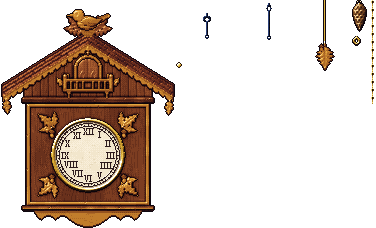
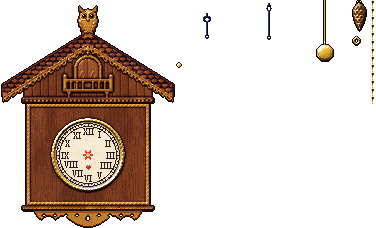
Loading clock: the owl cuckoo clock as before (boot9's), only calmer: no carved leaves or acorns (crest fan, eaves, gable sprigs, dial wreath), a plain brass disc pendulum, and a plain softly lamplit wall instead of the striped wallpaper; the office's wall clock is the same painting
Claude-Session: https://claude.ai/code/session_01N97LkrCm8fhfTY3mzxuNCj

diff --git a/index.html b/index.html
@@ -29,7 +29,7 @@ background:radial-gradient(ellipse 120% 100% at 50% 46%,rgba(2,8,5,0) 38%,rgba(2
 #boot .bt-stage{position:relative;width:176em;height:330em;flex:none;transform-origin:50% 46.970%}
 #boot .bt-clock{left:0;top:0;width:176em;height:330em}
 #boot .bt-case{left:0;top:0;width:176em;height:228em}
[2 lines of base64/hex data omitted]
 #boot .bt-wt,#boot .bt-rg{--d:1;animation:bt-wt 26s steps(1,end) forwards}
[2 lines of base64/hex data omitted]
@@ -39,7 +39,7 @@ background:radial-gradient(ellipse 120% 100% at 50% 46%,rgba(2,8,5,0) 38%,rgba(2
 #boot .bt-wt.w1{left:112em;top:236em}
 #boot .bt-rg.w0{left:39em;top:296em}
 #boot .bt-rg.w1{left:129em;top:288em}
[2 lines of base64/hex data omitted]
 #boot .bt-h{left:57em;top:124em;width:62em;height:62em}
[2 lines of base64/hex data omitted]
@@ -59,16 +59,16 @@ background:radial-gradient(ellipse 120% 100% at 50% 46%,rgba(2,8,5,0) 38%,rgba(2
 @keyframes bt-hh{to{background-position:-7440em 0}}
 @keyframes bt-wt{0.00%{transform:translateY(calc(var(--d)*0em))}0.22%{transform:translateY(calc(var(--d)*1em))}0.43%{transform:translateY(calc(var(--d)*2em))}0.66%{transform:translateY(calc(var(--d)*3em))}0.88%{transform:translateY(calc(var(--d)*4em))}1.11%{transform:translateY(calc(var(--d)*5em))}1.34%{transform:translateY(calc(var(--d)*6em))}1.57%{transform:translateY(calc(var(--d)*7em))}1.80%{transform:translateY(calc(var(--d)*8em))}2.04%{transform:translateY(calc(var(--d)*9em))}2.28%{transform:translateY(calc(var(--d)*10em))}2.53%{transform:translateY(calc(var(--d)*11em))}2.78%{transform:translateY(calc(var(--d)*12em))}3.03%{transform:translateY(calc(var(--d)*13em))}3.28%{transform:translateY(calc(var(--d)*14em))}3.54%{transform:translateY(calc(var(--d)*15em))}3.81%{transform:translateY(calc(var(--d)*16em))}4.08%{transform:translateY(calc(var(--d)*17em))}4.35%{transform:translateY(calc(var(--d)*18em))}4.63%{transform:translateY(calc(var(--d)*19em))}4.91%{transform:translateY(calc(var(--d)*20em))}5.20%{transform:translateY(calc(var(--d)*21em))}5.49%{transform:translateY(calc(var(--d)*22em))}5.79%{transform:translateY(calc(var(--d)*23em))}6.09%{transform:translateY(calc(var(--d)*24em))}6.40%{transform:translateY(calc(var(--d)*25em))}6.72%{transform:translateY(calc(var(--d)*26em))}7.05%{transform:translateY(calc(var(--d)*27em))}7.38%{transform:translateY(calc(var(--d)*28em))}7.72%{transform:translateY(calc(var(--d)*29em))}8.07%{transform:translateY(calc(var(--d)*30em))}8.43%{transform:translateY(calc(var(--d)*31em))}8.80%{transform:translateY(calc(var(--d)*32em))}9.18%{transform:translateY(calc(var(--d)*33em))}9.57%{transform:translateY(calc(var(--d)*34em))}9.97%{transform:translateY(calc(var(--d)*35em))}10.39%{transform:translateY(calc(var(--d)*36em))}10.82%{transform:translateY(calc(var(--d)*37em))}11.27%{transform:translateY(calc(var(--d)*38em))}11.74%{transform:translateY(calc(var(--d)*39em))}12.23%{transform:translateY(calc(var(--d)*40em))}12.75%{transform:translateY(calc(var(--d)*41em))}13.29%{transform:translateY(calc(var(--d)*42em))}13.86%{transform:translateY(calc(var(--d)*43em))}14.47%{transform:translateY(calc(var(--d)*44em))}15.13%{transform:translateY(calc(var(--d)*45em))}15.84%{transform:translateY(calc(var(--d)*46em))}16.62%{transform:translateY(calc(var(--d)*47em))}17.50%{transform:translateY(calc(var(--d)*48em))}18.51%{transform:translateY(calc(var(--d)*49em))}19.73%{transform:translateY(calc(var(--d)*50em))}21.33%{transform:translateY(calc(var(--d)*51em))}24.27%{transform:translateY(calc(var(--d)*52em))}41.32%{transform:translateY(calc(var(--d)*53em))}59.32%{transform:translateY(calc(var(--d)*54em))}}
 @keyframes bt-tap{0%{background-position:0 0}50%{background-position:-14em 0}}
-@keyframes bt-nod{0%,100%{background-position:-123em 0}84%{background-position:-205em 0}92%{background-position:-123em 0}}
+@keyframes bt-nod{0%,100%{background-position:-114em 0}84%{background-position:-190em 0}92%{background-position:-114em 0}}
 @keyframes bt-note{0%{opacity:1;transform:translate(0,0)}70%{opacity:1}100%{opacity:0;transform:translate(var(--dx),var(--dy))}}
 @media (prefers-reduced-motion:reduce){#boot *:not(.bt-h){animation-duration:0s!important;animation-iteration-count:1!important}}</style>
-    <div id="boot" role="progressbar" aria-label="Loading" data-art='{"fr":62,"mn":120,"hn":120,"cx":88,"dy":155,"rd":33,"w":176,"sh":330,"bw":176,"dw":41,"wt":58}'>
+    <div id="boot" role="progressbar" aria-label="Loading" data-art='{"fr":62,"mn":120,"hn":120,"cx":88,"dy":155,"rd":33,"w":176,"sh":330,"bw":176,"dw":38,"wt":58}'>
       <i class="bt-pool"></i><i class="bt-mote" style="left:calc(50% + -48em);top:calc(50% + 30em);animation-delay:0s"></i><i class="bt-mote" style="left:calc(50% + 44em);top:calc(50% + 10em);animation-delay:-2.1s"></i><i class="bt-mote" style="left:calc(50% + -22em);top:calc(50% + -40em);animation-delay:-4.4s"></i><i class="bt-mote" style="left:calc(50% + 56em);top:calc(50% + -56em);animation-delay:-6.2s"></i><i class="bt-mote" style="left:calc(50% + -62em);top:calc(50% + -8em);animation-delay:-1.3s"></i><i class="bt-mote" style="left:calc(50% + 14em);top:calc(50% + 62em);animation-delay:-3.6s"></i><i class="bt-mote" style="left:calc(50% + 32em);top:calc(50% + -70em);animation-delay:-7.7s"></i><i class="bt-mote" style="left:calc(50% + -36em);top:calc(50% + 70em);animation-delay:-5.1s"></i>
       <div class="bt-stage">
         <div class="bt-clock">
           <i class="bt-pend"></i>
           <i class="bt-wt w0"></i><i class="bt-wt w1"></i><i class="bt-rg w0"></i><i class="bt-rg w1"></i>
[2 lines of base64/hex data omitted]
           <i class="bt-door"></i>
           <i class="bt-h bt-hh"></i><i class="bt-h bt-mh"></i>
[1 lines of base64/hex data omitted]

diff --git a/src/onboard/boot.ts b/src/onboard/boot.ts
@@ -4,9 +4,9 @@
 // with the (estimated) loading progress while the rings on the other ends rise, and the leaf pendulum swings.
 // Once main.tsx marks the splash `gone`, this module takes over:
 //   1. strike  the weights settle at the bottom while the minute hand winds once round (landing back on the real
-//              time), then the little doors open and the cuckoo pops out onto the balcony rail and calls "cu-ckoo"
+//              time), then the little doors open and Pip pops out onto the balcony and calls "cu-ckoo"
 //   2. dive    a returning player: the clock zooms into its dial while a stepped pixel iris opens through it onto
-//              the world; a new player (`hold`): the cuckoo waits on the rail, bobbing, for one tap on the clock (which
+//              the world; a new player (`hold`): Pip waits on the balcony, nodding, for one tap on the clock (which
 //              also unlocks audio), calls twice, goes back in and shuts the doors; then the clock zooms nose to the
 //              dial, where the 3D office's own clock (the same painting) takes over and the camera pulls back into
 //              Pip's office (see Office.pullBack).
@@ -39,7 +39,7 @@ function syncTime(b: HTMLElement) {
 }
 const fontPx = (b: HTMLElement) => parseFloat(getComputedStyle(b).fontSize) || 2;
 
-// ------------------------------------------------------------------ the door and the cuckoo
+// ------------------------------------------------------------------ the door and the owl
 
 /** the door strip's frames (bootart.mjs STATES, after the closed door) */
 const F = { closed: 0, ajar: 1, peek: 2, out: 3, call: 4, bow: 5 } as const;
@@ -47,7 +47,7 @@ function door(f: number) {
   const d = el()?.querySelector<HTMLElement>('.bt-door');
   if (d) d.style.backgroundPosition = `-${f * ART.dw}em 0`;
 }
-/** the doors swing open and the cuckoo hops out onto the balcony rail */
+/** the doors swing open and Pip hops out onto the balcony */
 async function popOut() {
   const b = el();
   if (!b) return;
@@ -262,7 +262,7 @@ function check() {
 export function holdBoot() { el()?.classList.add('hold'); }
 export const bootShowing = () => { const b = el(); return !!b && b.style.display !== 'none' && (!b.classList.contains('gone') || b.classList.contains('hold')) && !b.classList.contains('zoom'); };
 
-/** The clock strikes (the cuckoo pops out), then waits for one tap on it (the tap unlocks audio). Resolves at once without a splash. */
+/** The clock strikes (Pip pops out), then waits for one tap on it (the tap unlocks audio). Resolves at once without a splash. */
 export function bootReady(): Promise<void> {
   const b = el();
   if (!b || !bootShowing()) return Promise.resolve();
@@ -283,7 +283,7 @@ export function bootReady(): Promise<void> {
 }
 
 /**
- * A new player's dive: the cuckoo calls twice (now with sound), goes back in and the doors shut; then the clock zooms nose
+ * A new player's dive: Pip calls twice (now with sound), goes back in and the doors shut; then the clock zooms nose
  * to its dial (the office's own clock is waiting underneath at the same framing, see bootDial) and the painting
  * dissolves into the 3D room. Resolves when the splash is gone.
  */

diff --git a/README.md b/README.md
@@ -40,7 +40,7 @@ furniture and outfits. The better you sleep, the fuller the satchel.
 - **Fluffy owls**: eight realistic, hand-painted species and four skins with soft downy plumage; 39 remodelled
   cosmetics.
 - **Intro and interview**: a pixel-art Black Forest cuckoo clock on a plain lamplit wall as the loading screen (the real time from the first frame,
-  pine-cone weights that sink as the game loads, a little cuckoo popping out of the doors to call cuckoo), then the
+  pine-cone weights that sink as the game loads, Pip popping out of the little doors to call cuckoo), then the
   Hollow & Co. office (the very same clock hangs on its wall),
   where Pip interviews you with a 2D paper form, live 3D answer cards, a fountain pen and a rubber stamp.
 - **A visual interview**: one-line questions answered by tapping hand-painted 3D objects (drinks, cassette tapes that
